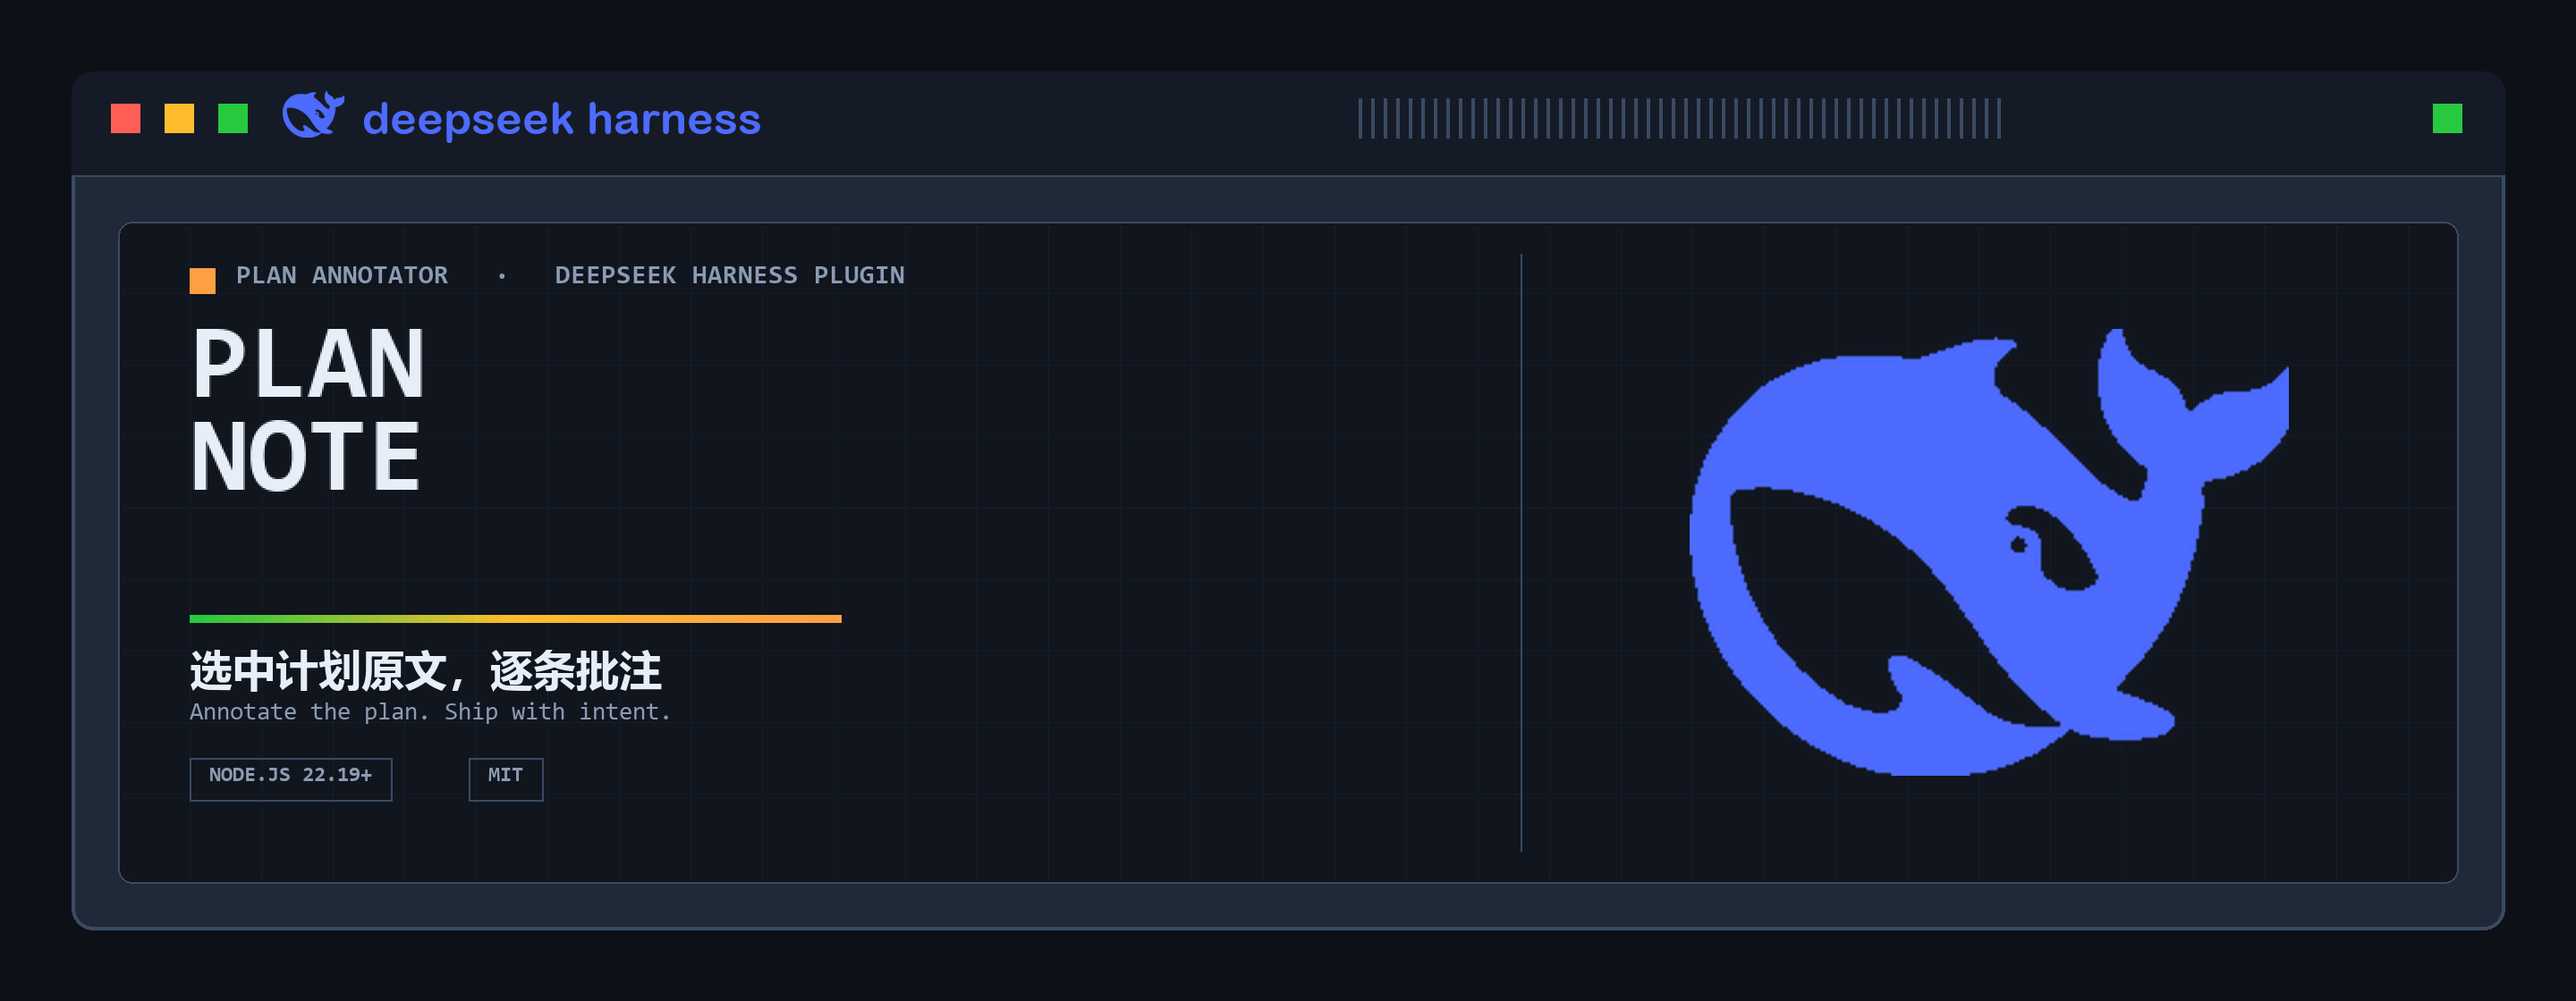
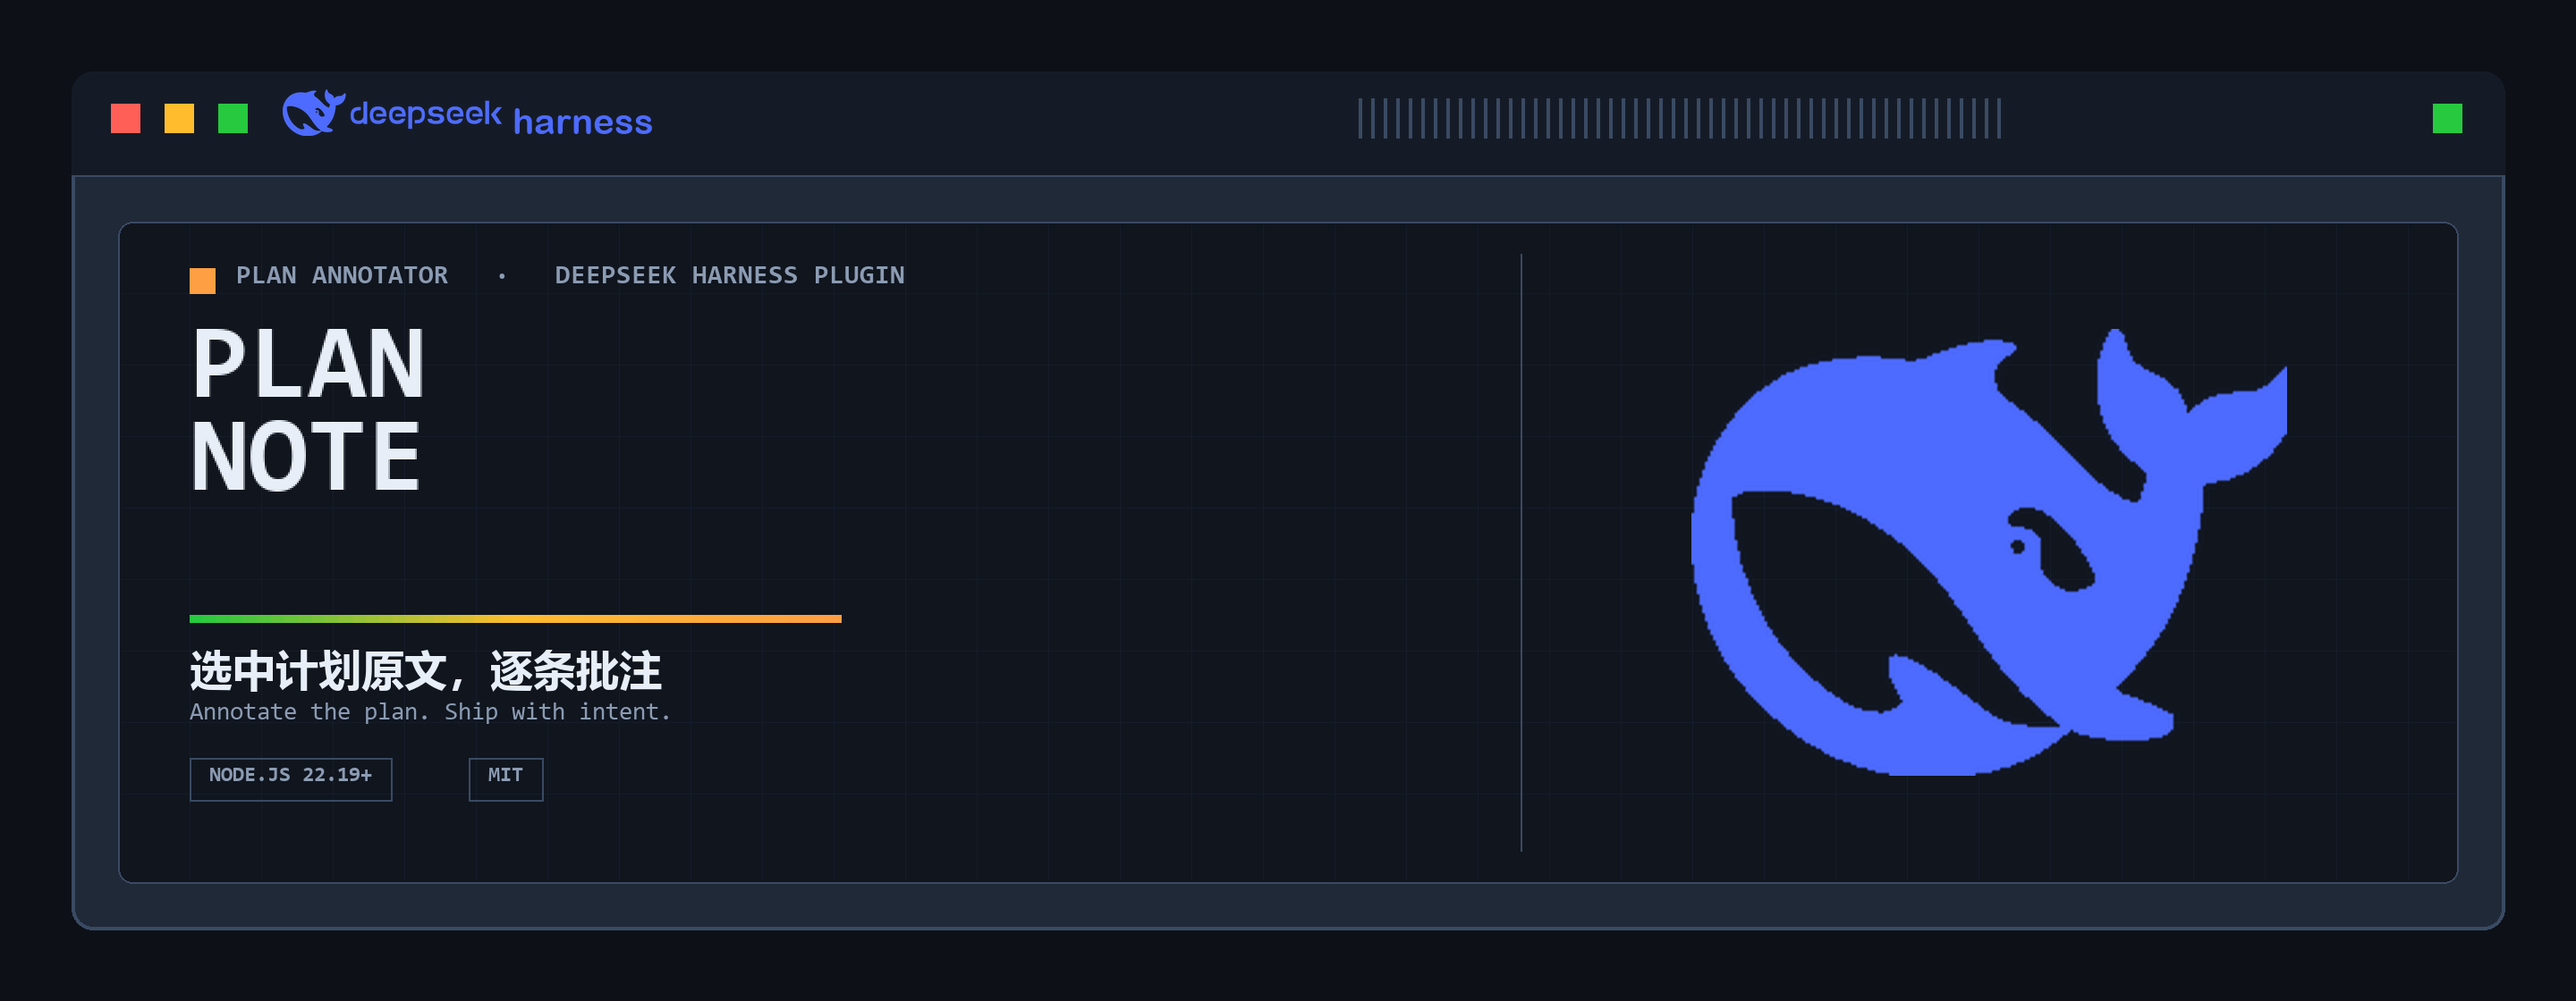
docs: use official whale artwork

diff --git a/tools/make_hero.py b/tools/make_hero.py
@@ -42,7 +42,7 @@ def load_glyph(height):
     for y in range(src.height):
         for x in range(src.width):
             r, g, b, a = px[x, y]
-            if a > 128 and b > 200 and r < 160:
+            if a > 120 and not (r > 225 and g > 225 and b > 225):
                 mp[x, y] = 255
     box = mask.getbbox()
     mask = mask.crop(box)
@@ -51,6 +51,15 @@ def load_glyph(height):
     out = Image.new("RGBA", mask.size, BLUE + (255,))
     out.putalpha(mask)
     return out
+
+
+def load_lockup(height):
+    """Official whale + wordmark, kept as the original artwork."""
+    src = Image.open(LOGO).convert("RGBA")
+    box = src.split()[3].getbbox()
+    src = src.crop(box)
+    scale = height / src.height
+    return src.resize((max(1, int(src.width * scale)), height), Image.LANCZOS)
 
 
 def font(path, size):
@@ -169,11 +178,11 @@ def main():
         x = u(62 + i * 30)
         d.rectangle([x, u(58), x + u(16), u(74)], fill=color)
 
-    # brand lockup in the title bar: official whale + wordmark
-    glyph = load_glyph(u(26))
-    img.alpha_composite(glyph, (u(158), u(51)))
-    f_brand = font(FONT_ROUND, u(25))
-    d.text((u(158) + glyph.width + u(10), u(51)), "deepseek harness", font=f_brand, fill=BLUE)
+    # brand lockup in the title bar: official artwork + product suffix
+    lock = load_lockup(u(26))
+    img.alpha_composite(lock, (u(158), u(50)))
+    f_brand = font(FONT_ROUND, u(20))
+    d.text((u(158) + lock.width + u(6), u(75)), "harness", font=f_brand, fill=BLUE, anchor="ls")
 
     for i in range(52):
         x = u(760 + i * 7)
